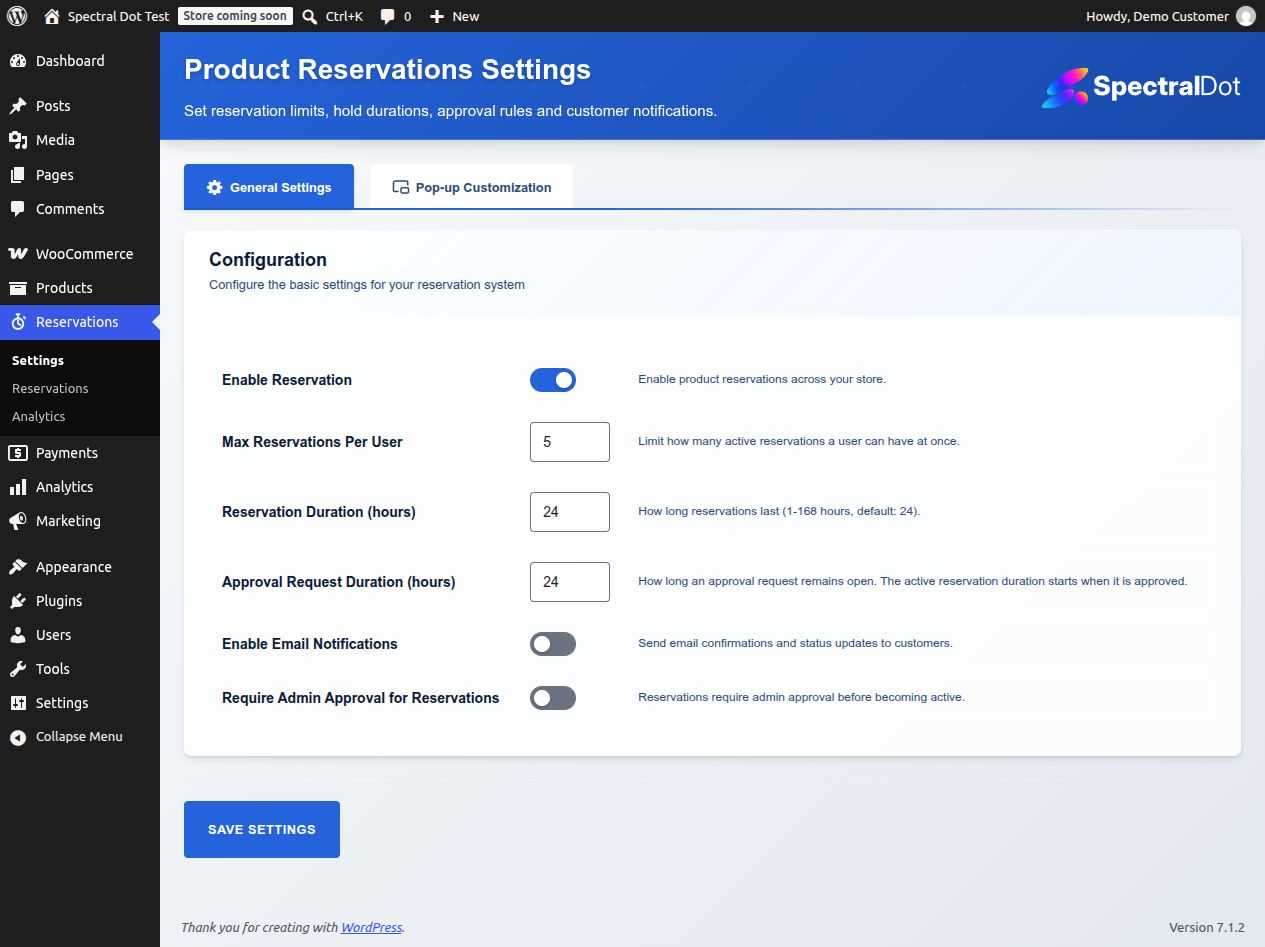
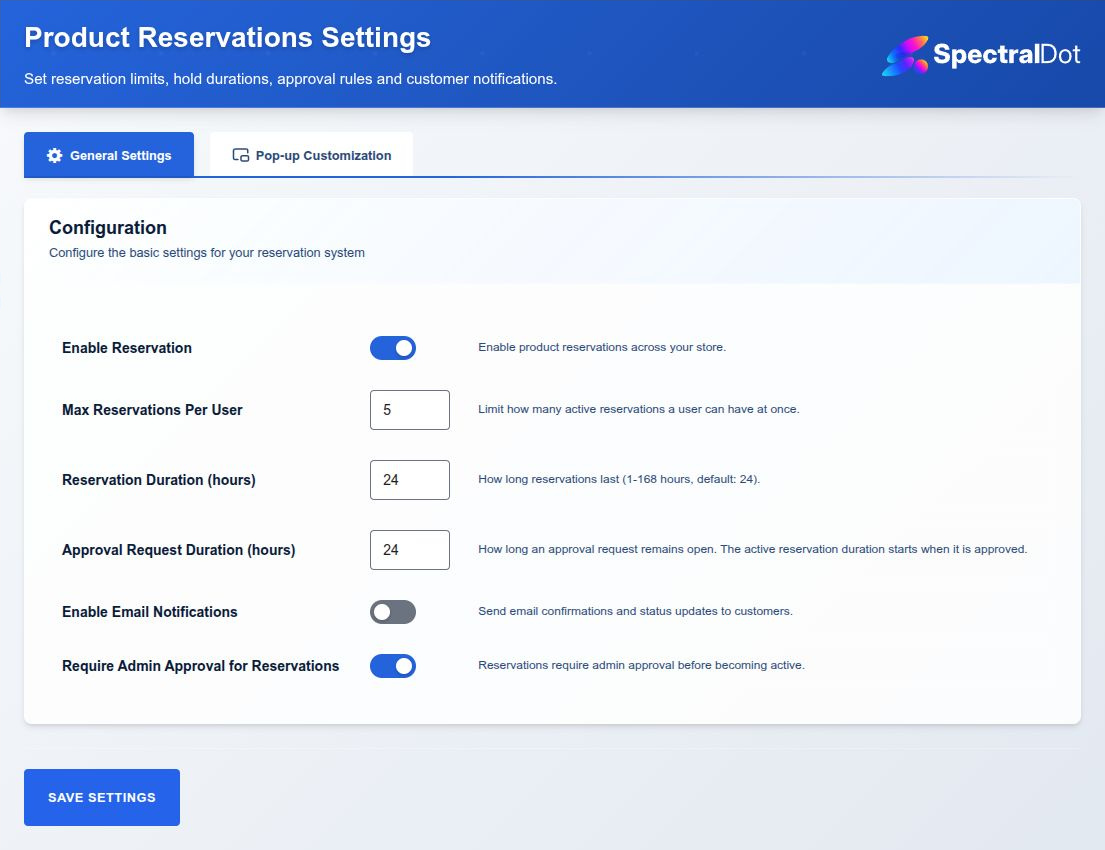
Frame directory screenshots around plugin content only

diff --git a/.wordpress-org/README.md b/.wordpress-org/README.md
@@ -26,11 +26,11 @@ The screenshot captions in `readme.txt` match these sequential files:
 
 ### Refresh Status
 
-Screenshots 1, 2, 4, 5 and 6 were captured directly from the current Free development files on 2026-10-02 and visually reviewed. They show only temporary demonstration products and reservations, not real customer data. No interface elements were recreated or edited into the images. The demo records were removed and the original test-site settings restored after capture.
+All six screenshots were recaptured on 2026-10-02 from the installed 1.0.0 release ZIP in an isolated QA database and visually reviewed. They use anonymous demonstration records, the final action palette and current branded views. Captures are framed to actual plugin/product content: no WordPress toolbar, admin sidebar, test-site header, navigation or footer is included. Only rectangular cropping was applied; no interface elements were hidden, recreated or edited into the images. The original test site's records and settings were not modified.
 
-Screenshot 3 was refreshed from the actual modal on 2026-10-02 after the contrast and result-state corrections, including the current stopwatch Reserve button in the product background. The heading and close button have a dedicated header row. Successful submissions replace the confirmation question with a result heading and notice; errors keep the confirmation form available. Active and pending success, duplicate errors, modal reset, Tab/Shift+Tab wrapping, Escape closing and opener-focus restoration were checked in the browser. Notice/close-control separation was verified at desktop, 390px and 320px widths.
+Screenshot 3 shows the actual approval-request confirmation dialog. The heading and close button have a dedicated header row. Successful submissions replace the confirmation question with a result heading and notice; errors keep the confirmation form available. Active and pending success, duplicate errors, modal reset, Tab/Shift+Tab wrapping, Escape closing and opener-focus restoration were checked in the earlier browser verification. Notice/close-control separation was verified at desktop, 390px and 320px widths.
 
-The final browser pass verified administrator and Shop Manager actions, customer cancellation, customer isolation and restricted roles. Screenshots 4 and 5 were recaptured from the exact 1.0.0 candidate after the customer action spacing and compact admin urgency badge corrections. Desktop wrapping and 390px stacked account buttons retain an 8px gap; the pending badge has its own visible border and does not scale the table cell. The temporary demonstration records were removed afterwards. These checks do not claim full screen-reader or accessibility conformance certification.
+The earlier browser pass verified administrator and Shop Manager actions, customer cancellation, customer isolation and restricted roles. Screenshots 4 and 5 include the corrected customer action spacing and compact admin urgency badge layout. Desktop wrapping and 390px stacked account buttons retain an 8px gap; the pending badge has its own visible border and does not scale the table cell. These checks do not claim full screen-reader or accessibility conformance certification.
 
 All screenshots use their actual JPEG format and `.jpg` extension. The previous modal reference was also JPEG data despite its `.png` filename; its extension was corrected without changing its pixels. WordPress.org supports both `.jpg` and `.png` screenshot names; keep exactly one file per number. See the [official directory asset guidance](https://developer.wordpress.org/plugins/wordpress-org/plugin-assets/#screenshots).
 
@@ -43,7 +43,7 @@ All screenshots use their actual JPEG format and `.jpg` extension. The previous 
 ![Product page with the stopwatch Reserve button beside Add to cart](screenshot-2.jpg)
 
 #### 3. Reservation Dialog
-![Reservation dialog and the current stopwatch action in its product background](screenshot-3.jpg)
+![Reservation approval-request confirmation dialog](screenshot-3.jpg)
 
 Current confirmation state with the corrected button contrast and separate close-control header.
 
